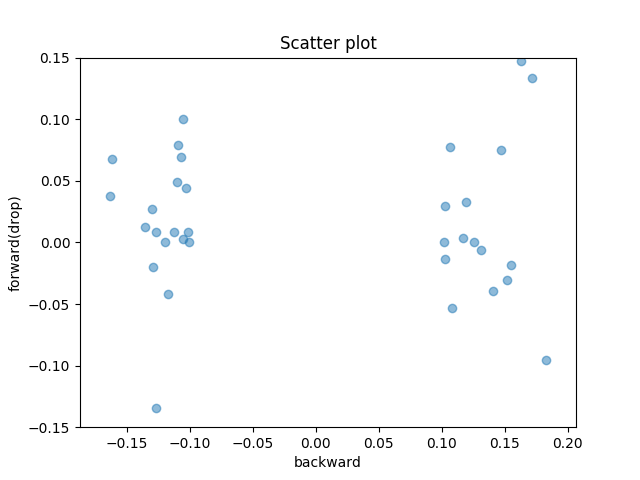
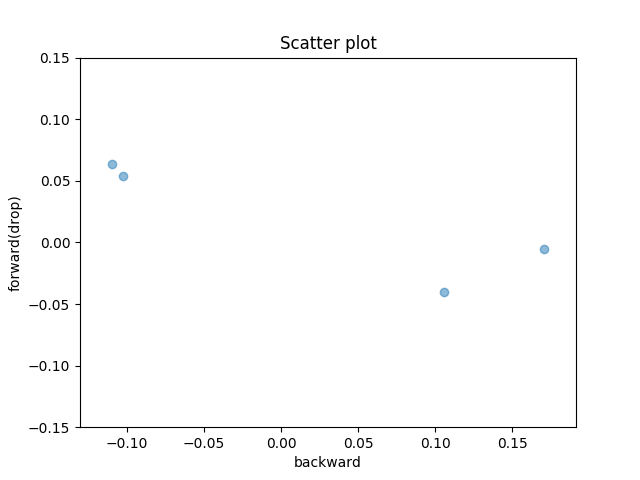
crypto analysis

diff --git a/analysis/strategy.py b/analysis/strategy.py
@@ -2,38 +2,44 @@ import pandas as pd, numpy as np
 
 from util.market import MARKET_MODE
 
-_CHANGE_LOWER_THRESHOLD = 0.1
-_CHANGE_UPPER_THRESHOLD = 0.2
+_ABS_CHANGE_LOWER_THRESHOLD = 0.1
+_ABS_CHANGE_UPPER_THRESHOLD = 0.2
 _TIME_WINDOW_BACKWARD_MINUTES = 10
 _TIME_WINDOW_FORWARD_MINUTES_DROP = 5
 _TIME_WINDOW_FORWARD_MINUTES_JUMP = 5
+_DROP_CHANGE_THRESHOLD = -0.1
+_JUMP_CHANGE_THRESHOLD = 0.1
 
 class Parameters:
     def __init__(self):
-        change_lower_threshold = _CHANGE_LOWER_THRESHOLD
-        change_upper_threshold = _CHANGE_UPPER_THRESHOLD
+        abs_change_lower_threshold = _ABS_CHANGE_LOWER_THRESHOLD
+        abs_change_upper_threshold = _ABS_CHANGE_UPPER_THRESHOLD
         time_window_backward_minutes = _TIME_WINDOW_BACKWARD_MINUTES
         time_window_forward_drop_minutes = _TIME_WINDOW_FORWARD_MINUTES_DROP
         time_window_forward_jump_minutes = _TIME_WINDOW_FORWARD_MINUTES_JUMP
+        drop_change_threshold = _DROP_CHANGE_THRESHOLD
+        jump_change_threshold = _JUMP_CHANGE_THRESHOLD
         long_on_jump = True
-        self.change_lower_threshold = change_lower_threshold
-        self.change_upper_threshold = change_upper_threshold
+        self.abs_change_lower_threshold = abs_change_lower_threshold
+        self.abs_change_upper_threshold = abs_change_upper_threshold
         self.time_window_backward_minutes = time_window_backward_minutes
         self.time_window_forward_drop_minutes = time_window_forward_drop_minutes
         self.time_window_forward_jump_minutes = time_window_forward_jump_minutes
+        self.drop_change_threshold = drop_change_threshold
+        self.jump_change_threshold = jump_change_threshold
         self.long_on_jump = long_on_jump
 
     def __str__(self):
         return '''
-change_lower_threshold: {change_lower_threshold}, 
-change_upper_threshold: {change_upper_threshold},
+abs_change_lower_threshold: {abs_change_lower_threshold}, 
+abs_change_upper_threshold: {abs_change_upper_threshold},
 time_window_backward_minutes: {time_window_backward_minutes}, 
 time_window_forward_drop_minutes: {time_window_forward_drop_minutes},
 time_window_forward_jump_minutes: {time_window_forward_jump_minutes},
 long_on_jump: {long_on_jump}
         '''.format(
-            change_lower_threshold=self.change_lower_threshold,
-            change_upper_threshold=self.change_upper_threshold,
+            abs_change_lower_threshold=self.abs_change_lower_threshold,
+            abs_change_upper_threshold=self.abs_change_upper_threshold,
             time_window_backward_minutes=self.time_window_backward_minutes,
             time_window_forward_drop_minutes=self.time_window_forward_drop_minutes,
             time_window_forward_jump_minutes=self.time_window_forward_jump_minutes,
@@ -49,6 +55,21 @@ long_on_jump: {long_on_jump}
     def get_feature_forward_jump(self):
         return 'close_change_f_{w}_w{w}'.format(w=self.time_window_forward_jump_minutes)
 
+def _dedupe_consecutives(df_signal, parameter):
+    df_signal_by_symbol = df_signal.reset_index().set_index('symbol').sort_index(by=['symbol', 'datetime'])
+    df_signal_by_symbol['datetime'] = df_signal_by_symbol['datetime'].astype('datetime64[ns]')
+
+    #df_signal_by_symbol = df_signal_by_symbol[
+    #    df_signal_by_symbol.datetime.diff().fillna(np.timedelta64(100, 'm')) > np.timedelta64(parameter.time_window_backward_minutes, 'm')]
+
+    #df_signal_by_symbol = df_signal_by_symbol[df_signal_by_symbol.datetime.diff().fillna(np.timedelta64(100, 'm')) > np.timedelta64(parameter.time_window_backward_minutes, 'm')]
+
+    df_signal_by_symbol = df_signal_by_symbol[
+        df_signal_by_symbol.datetime.diff(-1).fillna(np.timedelta64(-100, 'm')) < -np.timedelta64(parameter.time_window_backward_minutes, 'm')]
+
+    df_signal_deduped = df_signal_by_symbol.reset_index().set_index(['datetime', 'symbol'])
+    return df_signal_deduped
+
 def pick_signal(dff, parameter):
     time_window_backward_minutes = parameter.time_window_backward_minutes
     feature_backward = parameter.get_feature_backward()
@@ -58,16 +79,15 @@ def pick_signal(dff, parameter):
 
     df_signal = dff
 
-    df_signal = df_signal[np.abs(df_signal[feature_backward]) > parameter.change_lower_threshold]
-    df_signal = df_signal[np.abs(df_signal[feature_backward]) < parameter.change_upper_threshold]
+    df_signal = df_signal[np.abs(df_signal[feature_backward]) > parameter.abs_change_lower_threshold]
+    df_signal = df_signal[np.abs(df_signal[feature_backward]) < parameter.abs_change_upper_threshold]
     # df_signal = df_signal[np.abs(df_signal[feature_backward_2]) < 0.10]
-    # dff = dff[dff[feature_backward] < -0.20]
-    # dff = dff[(dff[feature_backward] > 0.10) | (dff[feature_backward] < -0.10)]
+    # dff = dff[dff[feature_backward] < -0.10]
+    df_signal = df_signal[(df_signal[feature_backward] > parameter.jump_change_threshold) | (df_signal[feature_backward] < parameter.drop_change_threshold)]
 
-    df_signal_by_symbol = df_signal.reset_index().set_index('symbol').sort_index(by=['symbol', 'datetime'])
-    df_signal_by_symbol['datetime'] = df_signal_by_symbol['datetime'].astype('datetime64[ns]')
-    df_signal_by_symbol = df_signal_by_symbol[
-        df_signal_by_symbol.datetime.diff().fillna(np.timedelta64(100, 'm')) > np.timedelta64(parameter.time_window_backward_minutes, 'm')]
-    df_signal_deduped = df_signal_by_symbol.reset_index().set_index(['datetime', 'symbol'])
+    df_signal_deduped = _dedupe_consecutives(df_signal, parameter)
 
     return df_signal_deduped
+
+
+

diff --git a/sandbox_crypto.py b/sandbox_crypto.py
@@ -6,26 +6,15 @@ from util.market import MARKET_MODE
 import config
 
 market_mode = MARKET_MODE.MARKET_CRYPTO
-
-filename = None
-df = None
-if market_mode is MARKET_MODE.MARKET_KOR:
-    filename = 'data/combined.2019-09-20.csv'
-    df = pd.read_csv(filename, index_col=['datetime', 'symbol']).sort_index()
-elif market_mode is MARKET_MODE.MARKET_US:
-    # filename = 'data/us.intraday.polygon.history.csv'
-    # df = pd.read_csv(filename, index_col=['time','symbol']).sort_index()
-    filename = 'data/stream.minute.csv'
-    df = pd.read_csv(filename, index_col=['datetime', 'symbol']).sort_index()
-elif market_mode is MARKET_MODE.MARKET_CRYPTO:
-    filename = 'data/binance.minute.csv'
-    df = pd.read_csv(filename, index_col=['datetime','symbol']).sort_index()
-
+filename = 'data/binance.minute.csv'
+df = pd.read_csv(filename, index_col=['datetime', 'symbol']).sort_index()
 
 df = df.loc[~df.index.duplicated(keep='first')]
 dff = features.add_features(df, market_mode=market_mode)
 
 param = strategy.Parameters()
+param.abs_change_lower_threshold = 0.1
+param.abs_change_upper_threshold = 0.4
 param.time_window_forward_drop_minutes = 5
 param.time_window_forward_jump_minutes = 20
 param.long_on_jump = False
@@ -33,6 +22,12 @@ param.change_lower_threshold = 0.10
 df_signal = strategy.pick_signal(dff, param)
 
 evaluation.print_evaluation(df_signal, param)
+
+print('drop')
+print(df_signal[[param.get_feature_backward(), 'close', param.get_feature_forward_drop()]])
+print(df_signal[[param.get_feature_backward(), 'close']])
+print('jump')
+print(df_signal[[param.get_feature_backward(), param.get_feature_forward_jump()]])
 
 image_file_name = 'images/time_window_backward_minutes_{time_window_backward_minutes}_{change_lower_threshold}_drop.png'.format(time_window_backward_minutes=param.time_window_backward_minutes, change_lower_threshold=param.change_lower_threshold)
 plots.scatter.do_plot(

diff --git a/analysis/features.py b/analysis/features.py
@@ -4,16 +4,27 @@ from util.market import MARKET_MODE
 
 _CLOSE_LOWER_LIMIT_KRW = 2000
 _CLOSE_LOWER_LIMIT_USD = 2
-_PREV_VOLUME_LOWER_LIMIT = 3
-_PREV_VOLUME_UPPER_LIMIT = 10000
+_CLOSE_LOWER_LIMIT_CRYPTO = 1
 
-def add_features(df, market_mode=MARKET_MODE.MARKET_KOR):
-    close_lower_limit = None
+class PreFilterParameters:
+    def __init__(self, close_lower_limit):
+        self.close_lower_limit = close_lower_limit
 
+def get_pre_filter_parameters(market_mode=MARKET_MODE.MARKET_KOR):
     if market_mode is MARKET_MODE.MARKET_US:
         close_lower_limit = _CLOSE_LOWER_LIMIT_USD
     elif market_mode is MARKET_MODE.MARKET_KOR:
         close_lower_limit = _CLOSE_LOWER_LIMIT_KRW
+    elif market_mode is MARKET_MODE.MARKET_CRYPTO:
+        close_lower_limit = _CLOSE_LOWER_LIMIT_CRYPTO
+    else:
+        close_lower_limit = 0
+
+    param = PreFilterParameters(close_lower_limit)
+    return param
+
+def add_features(df, market_mode=MARKET_MODE.MARKET_KOR):
+    param = get_pre_filter_parameters(market_mode=market_mode)
 
     _diff_sign = 1
 
@@ -36,9 +47,8 @@ def add_features(df, market_mode=MARKET_MODE.MARKET_KOR):
         close_prev = df['close_f_0']
         df['close_change_f_{w}_w{w}'.format(w=window_size)] = (close_cur - close_prev) / close_prev
 
-
     df = df[df.open != 0]
-    df = df[df.close > close_lower_limit]
+    df = df[df.close > param.close_lower_limit]
 
     df = df.dropna()
     return df

diff --git a/util/market.py b/util/market.py
@@ -3,4 +3,5 @@ from enum import Enum
 class MARKET_MODE(Enum):
     MARKET_KOR = 1
     MARKET_US = 2
+    MARKET_CRYPTO = 3
 
